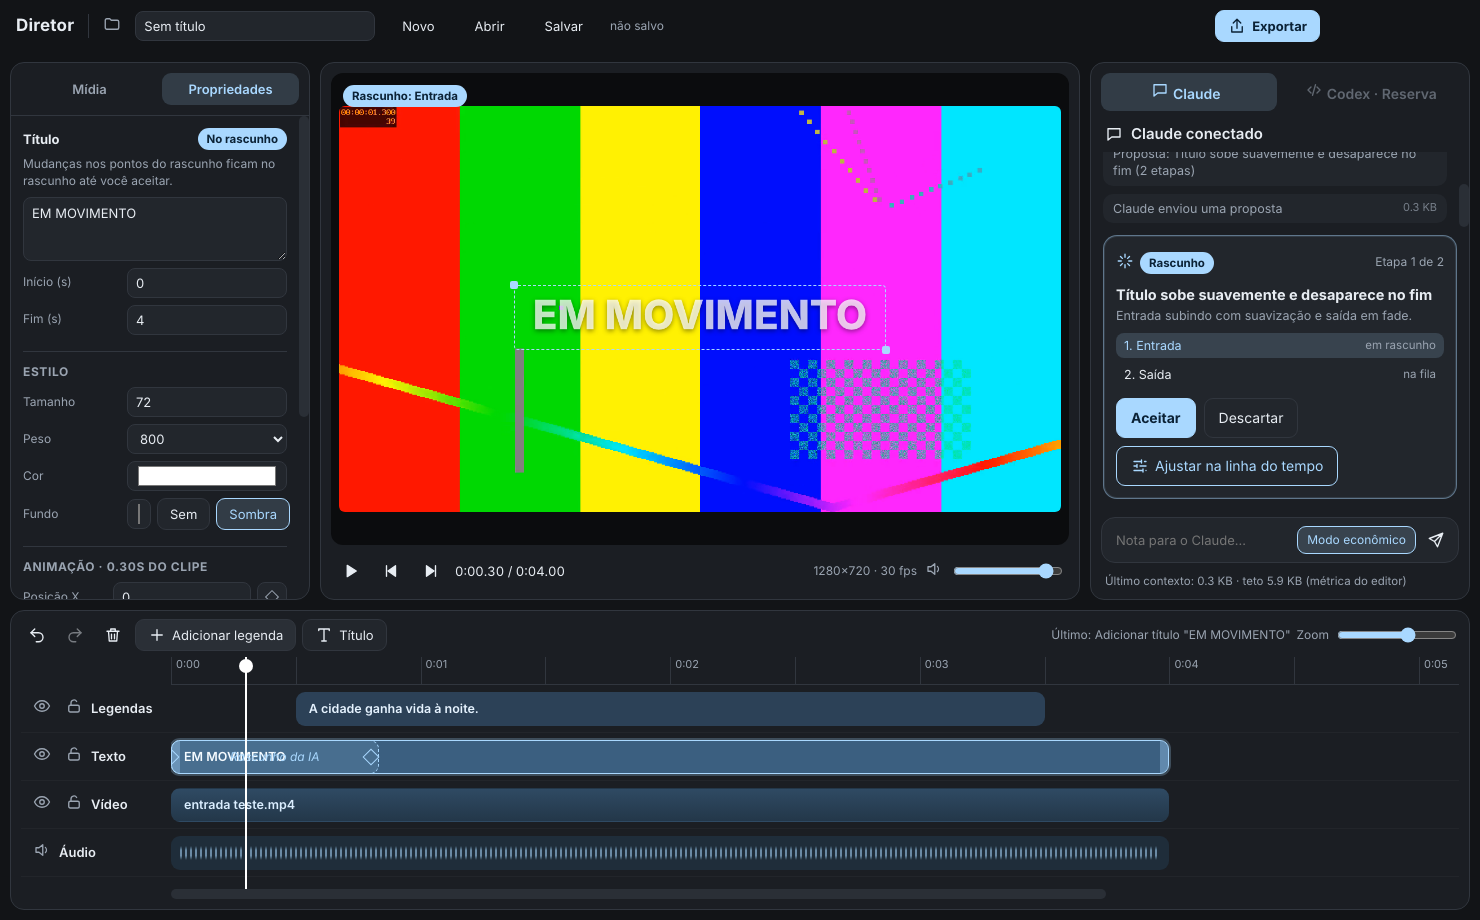
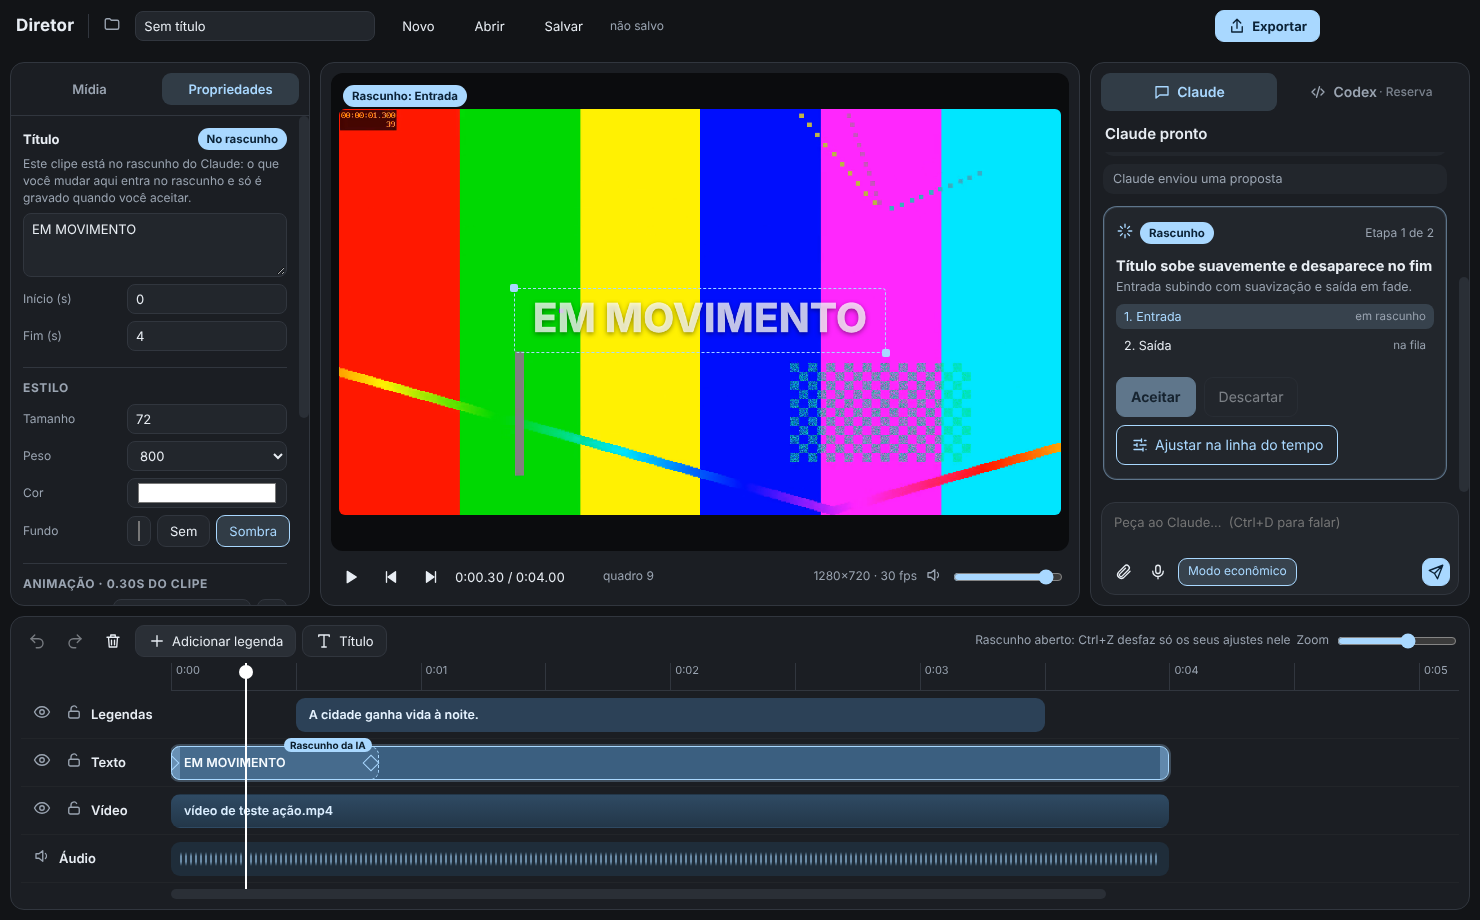
Revisão: teto antigo salvo é ignorado e o histórico fala sem jargão
- Um teto salvo por uma versão antiga (o roteiro mandava baixar para 1 KB)
  continuava valendo sem nenhum jeito de mudar na tela: agora só o liga/desliga
  é lembrado, e o teto é sempre o padrão.
- O histórico do chat diz "Você deixou a IA ver mais do projeto" em vez de
  "Contexto maior autorizado".
- Saem as medidas de tamanho que nada mais mostra (bridgeStats e bytesOut).
- Capturas do README refeitas pelo roteiro de ponta a ponta (sem KB na tela),
  roteiro de teste mais claro sobre quando aparece o pedido de licença.

Claude-Session: https://claude.ai/code/session_015y1tEsZvMoiGWCkYfpabP2

diff --git a/src/renderer/bridgeClient.ts b/src/renderer/bridgeClient.ts
@@ -1,9 +1,9 @@
-import { byteSize, handleBridge } from '../core/api';
+import { handleBridge } from '../core/api';
 import { chat } from './chat';
 import { session } from './store';
 
 /** lastDesktopCallAt: só as chamadas do Claude Desktop (as do chat do painel vêm marcadas). */
-export const bridgeStats = { lastCallAt: 0, lastDesktopCallAt: 0, lastBytesOut: 0, totalBytesOut: 0, calls: 0 };
+export const bridgeStats = { lastCallAt: 0, lastDesktopCallAt: 0 };
 
 const LABEL: Record<string, string> = {
   status: 'conferiu o editor',
@@ -33,16 +33,12 @@ export function connectBridge(): () => void {
     }
     // Ninguém espera mais esta resposta.
     if (ctrl.signal.aborted) return;
-    const out = byteSize(result);
     bridgeStats.lastCallAt = Date.now();
     if (!client) bridgeStats.lastDesktopCallAt = Date.now();
     // Quem fez cada proposta: o "Refazer" pede a ele, e só a ele.
     const pid = (result as { id?: unknown } | null)?.id;
     if (method === 'propose_edit' && client && typeof pid === 'string') chat.markProposal(pid, client);
-    bridgeStats.lastBytesOut = out;
-    bridgeStats.totalBytesOut += out;
-    bridgeStats.calls++;
-    session.log('tool', `${client === 'codex' ? 'Codex' : 'Claude'} ${LABEL[method] ?? method}`, { bytesOut: out, bytesIn: byteSize(params) });
+    session.log('tool', `${client === 'codex' ? 'Codex' : 'Claude'} ${LABEL[method] ?? method}`);
     api.bridgeRespond(id, result);
   });
   return () => {

diff --git a/src/renderer/store.ts b/src/renderer/store.ts
@@ -3,12 +3,12 @@ import { EditorSession } from '../core/session';
 
 export const session = new EditorSession();
 
-// Modo econômico e teto ficam salvos neste computador (valem na próxima vez que abrir).
+// O modo econômico fica salvo neste computador (vale na próxima vez que abrir). O teto não é mais
+// ajustável na tela: um teto salvo por uma versão antiga (ex.: 1 KB) é ignorado e vale o padrão.
 const SETTINGS_KEY = 'diretor.settings';
 try {
   const saved = JSON.parse(localStorage.getItem(SETTINGS_KEY) ?? 'null');
-  if (saved && typeof saved.economy === 'boolean' && Number.isFinite(saved.contextCeilingBytes) && saved.contextCeilingBytes >= 1024)
-    session.updateSettings({ economy: saved.economy, contextCeilingBytes: Math.min(256 * 1024, saved.contextCeilingBytes) });
+  if (saved && typeof saved.economy === 'boolean') session.updateSettings({ economy: saved.economy });
 } catch {
   /* sem armazenamento: usa o padrão (econômico ligado) */
 }

diff --git a/src/core/session.ts b/src/core/session.ts
@@ -77,9 +77,6 @@ export interface ActivityEntry {
   time: number;
   kind: 'tool' | 'proposal' | 'decision' | 'note' | 'info';
   text: string;
-  /** Tamanho do contexto enviado ao assistente (métrica do editor, bytes). */
-  bytesOut?: number;
-  bytesIn?: number;
 }
 
 export interface UserNote {
@@ -479,7 +476,7 @@ export class EditorSession {
   answerContextRequest(grant: boolean): void {
     if (!this.contextRequest) return;
     this.contextRequest = { ...this.contextRequest, status: grant ? 'granted' : 'denied' };
-    this.log('decision', grant ? 'Contexto maior autorizado (uma vez).' : 'Contexto maior recusado.');
+    this.log('decision', grant ? 'Você deixou a IA ver mais do projeto (uma vez).' : 'Você não deixou a IA ver mais do projeto.');
   }
 
   addNote(text: string): void {

diff --git a/tests/session.test.ts b/tests/session.test.ts
@@ -168,7 +168,7 @@ describe('propostas em rascunho', () => {
 });
 
 describe('modo econômico', () => {
-  it('contexto mínimo, cache por revisão e teto configurável', async () => {
+  it('contexto mínimo, cache por revisão e teto', async () => {
     const s = setup();
     const a: any = await handleBridge(s, 'get_context', {});
     expect(a.selection[0].id).toBe('t1');
@@ -595,7 +595,7 @@ describe('teto de contexto', () => {
     expect(s.contextRequest).toBeNull();
   });
 
-  it('recusa vale até o usuário mudar o teto', async () => {
+  it('recusa vale até o teto mudar', async () => {
     const s = setup();
     s.updateSettings({ contextCeilingBytes: 300 });
     await handleBridge(s, 'get_context', { include: ['timeline'], allowLarger: true });

diff --git a/docs/ROTEIRO-DE-TESTE.md b/docs/ROTEIRO-DE-TESTE.md
@@ -27,7 +27,7 @@ No Linux (nesta entrega) e no Windows pelo GitHub Actions (`.github/workflows/ci
 12. **Desfazer/refazer** (Ctrl+Z / Ctrl+Y) a entrada aceita.
 13. **Salvar, fechar, reabrir** o projeto. Mude algo e tente fechar a janela: o editor deve perguntar antes de sair sem salvar. Renomeie um dos vídeos na pasta e reabra o projeto: o aviso deve dizer que o arquivo não foi encontrado.
 14. **Exportar** e comparar o MP4 com a prévia no início, meio e fim da animação; conferir duração, legenda, cores e áudio. Exporte de novo **por cima do mesmo arquivo** e clique **Cancelar** no meio: deve parar na hora e o MP4 anterior continua lá, inteiro. Exporte mais uma vez e tente fechar a janela: o editor pergunta antes. Por fim, abra o MP4 exportado num player (Filmes e TV, Windows Media Player ou VLC), deixe-o tocando e exporte de novo para o mesmo nome: se o player prender o arquivo, o editor mostra “Finalizando e gravando o MP4…” por alguns segundos e avisa que salvou como “nome (1).mp4”; se não prender, substitui. Repita e clique **Cancelar** enquanto aparece “Finalizando e gravando o MP4…”: nada deve mudar na pasta. Em nenhum caso um vídeo some ou fica pela metade.
-15. **Modo econômico:** o botão **Modo econômico**, abaixo da caixa do chat, liga e desliga com um clique (azul é ligado) e um aviso curto diz o que mudou. Feche e abra o Diretor: a escolha continua. Ligado, num projeto grande (muitas legendas e títulos), um pedido que precise da linha do tempo inteira faz o editor pedir sua autorização; se recusar, o Claude não pede de novo. Desligado, ele vê tudo sem pedir. Nenhum número em KB aparece no chat.
+15. **Modo econômico:** o botão **Modo econômico**, abaixo da caixa do chat, liga e desliga com um clique (azul é ligado) e um aviso curto diz o que mudou. Feche e abra o Diretor: a escolha continua. Nenhum número em KB aparece no chat. O pedido de licença (“A IA quer ver mais do projeto”) só aparece com o modo ligado e em projetos bem grandes, com umas 45 legendas e títulos ou mais (menos se tiverem animação); ele é conferido pelos testes automáticos.
 16. **Sem IA:** feche o Claude Desktop; o editor continua funcionando à mão.
 17. **Atualizar com tudo aberto:** com o Diretor aberto (com uma mudança sem salvar) e o Claude Desktop aberto e conectado, instale o mesmo `Diretor-Setup.exe` por cima. O instalador deve pedir para salvar e fechar o Diretor (sem fechá-lo sozinho). Clique em **Cancelar** uma vez: nada muda, e o Claude continua usando o Diretor. Instale de novo, feche o Diretor e clique em **Repetir**: no fim, o instalador avisa que o Claude Desktop precisa ser fechado e aberto de novo. Depois de reabrir o Claude, o conector “diretor” volta a funcionar.
 18. **Desinstalar:** com o Diretor conectado e o Claude Desktop aberto, vá em Configurações → Aplicativos → Diretor → Desinstalar. O desinstalador deve pedir para fechar o Claude Desktop por completo. Feche, clique em **Repetir** e depois abra o Claude: o conector “diretor” sumiu, e os outros conectores continuam. (Se o Diretor não estiver na configuração do Claude, o desinstalador não pede nada.)

diff --git a/docs/PLANO.md b/docs/PLANO.md
@@ -11,7 +11,7 @@ Pronto:
 - Camada única de operações para interface e MCP; validação de alvo, parâmetros, intervalo e revisão.
 - Propostas em etapas, mostradas como rascunho uma por vez; ajuste manual vai para o rascunho; gravação só após aceitar; cada etapa aceita é desfeita separadamente.
 - Rascunho desatualizado (projeto ou seleção mudaram) com “Refazer com contexto atual”; chamadas repetidas idempotentes (`requestId`).
-- Modo econômico ligado por padrão, com teto de contexto e autorização para pedidos maiores. Depois da Fase 1, a pedido do usuário: o botão liga e desliga com um clique, os números em KB saíram da tela, o teto (6 KB) só vale com o modo ligado (desligado, a IA vê o projeto todo sem pedir licença) e trocar o modo desfaz um pedido ou uma recusa pendente.
+- Modo econômico ligado por padrão, com teto de contexto e autorização para pedidos maiores. Depois da Fase 1, a pedido do usuário: o botão liga e desliga com um clique, os números em KB saíram da tela, o teto (6 KB) só vale com o modo ligado (desligado, a IA vê o projeto todo sem pedir licença) e trocar o modo desfaz um pedido ou uma recusa pendente. Um teto salvo por uma versão antiga é ignorado.
 
 Decisões:
 
